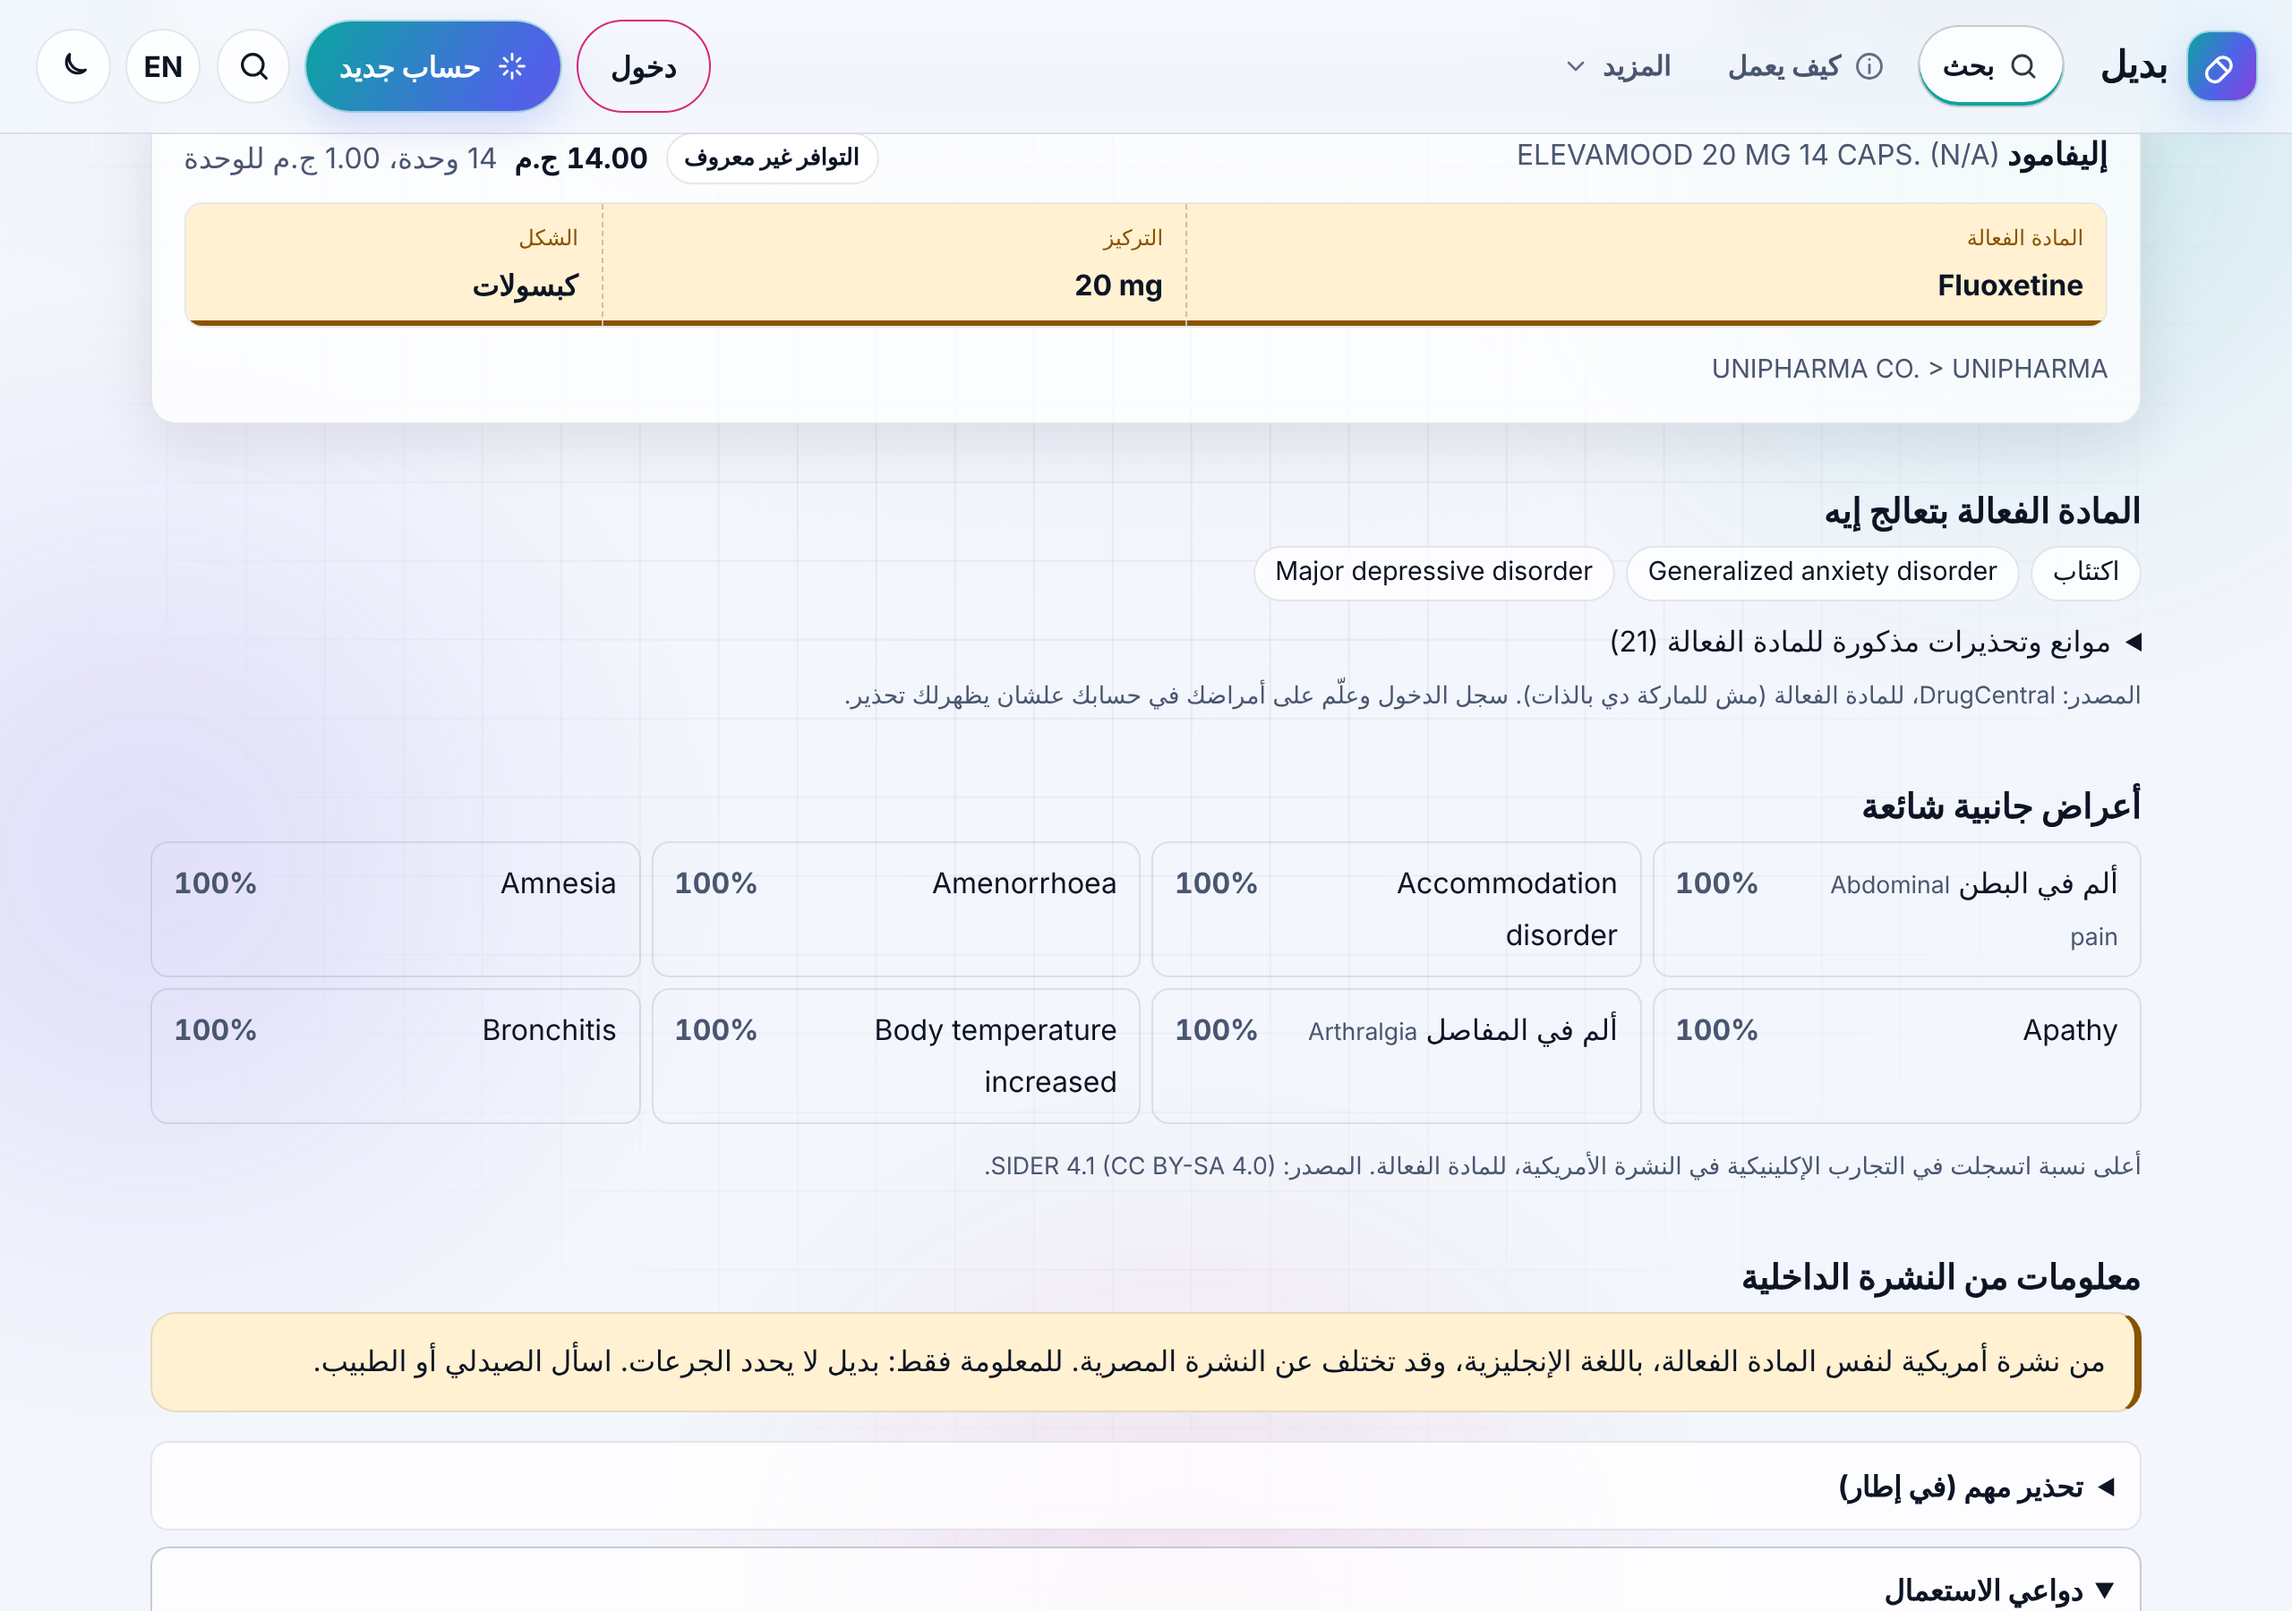
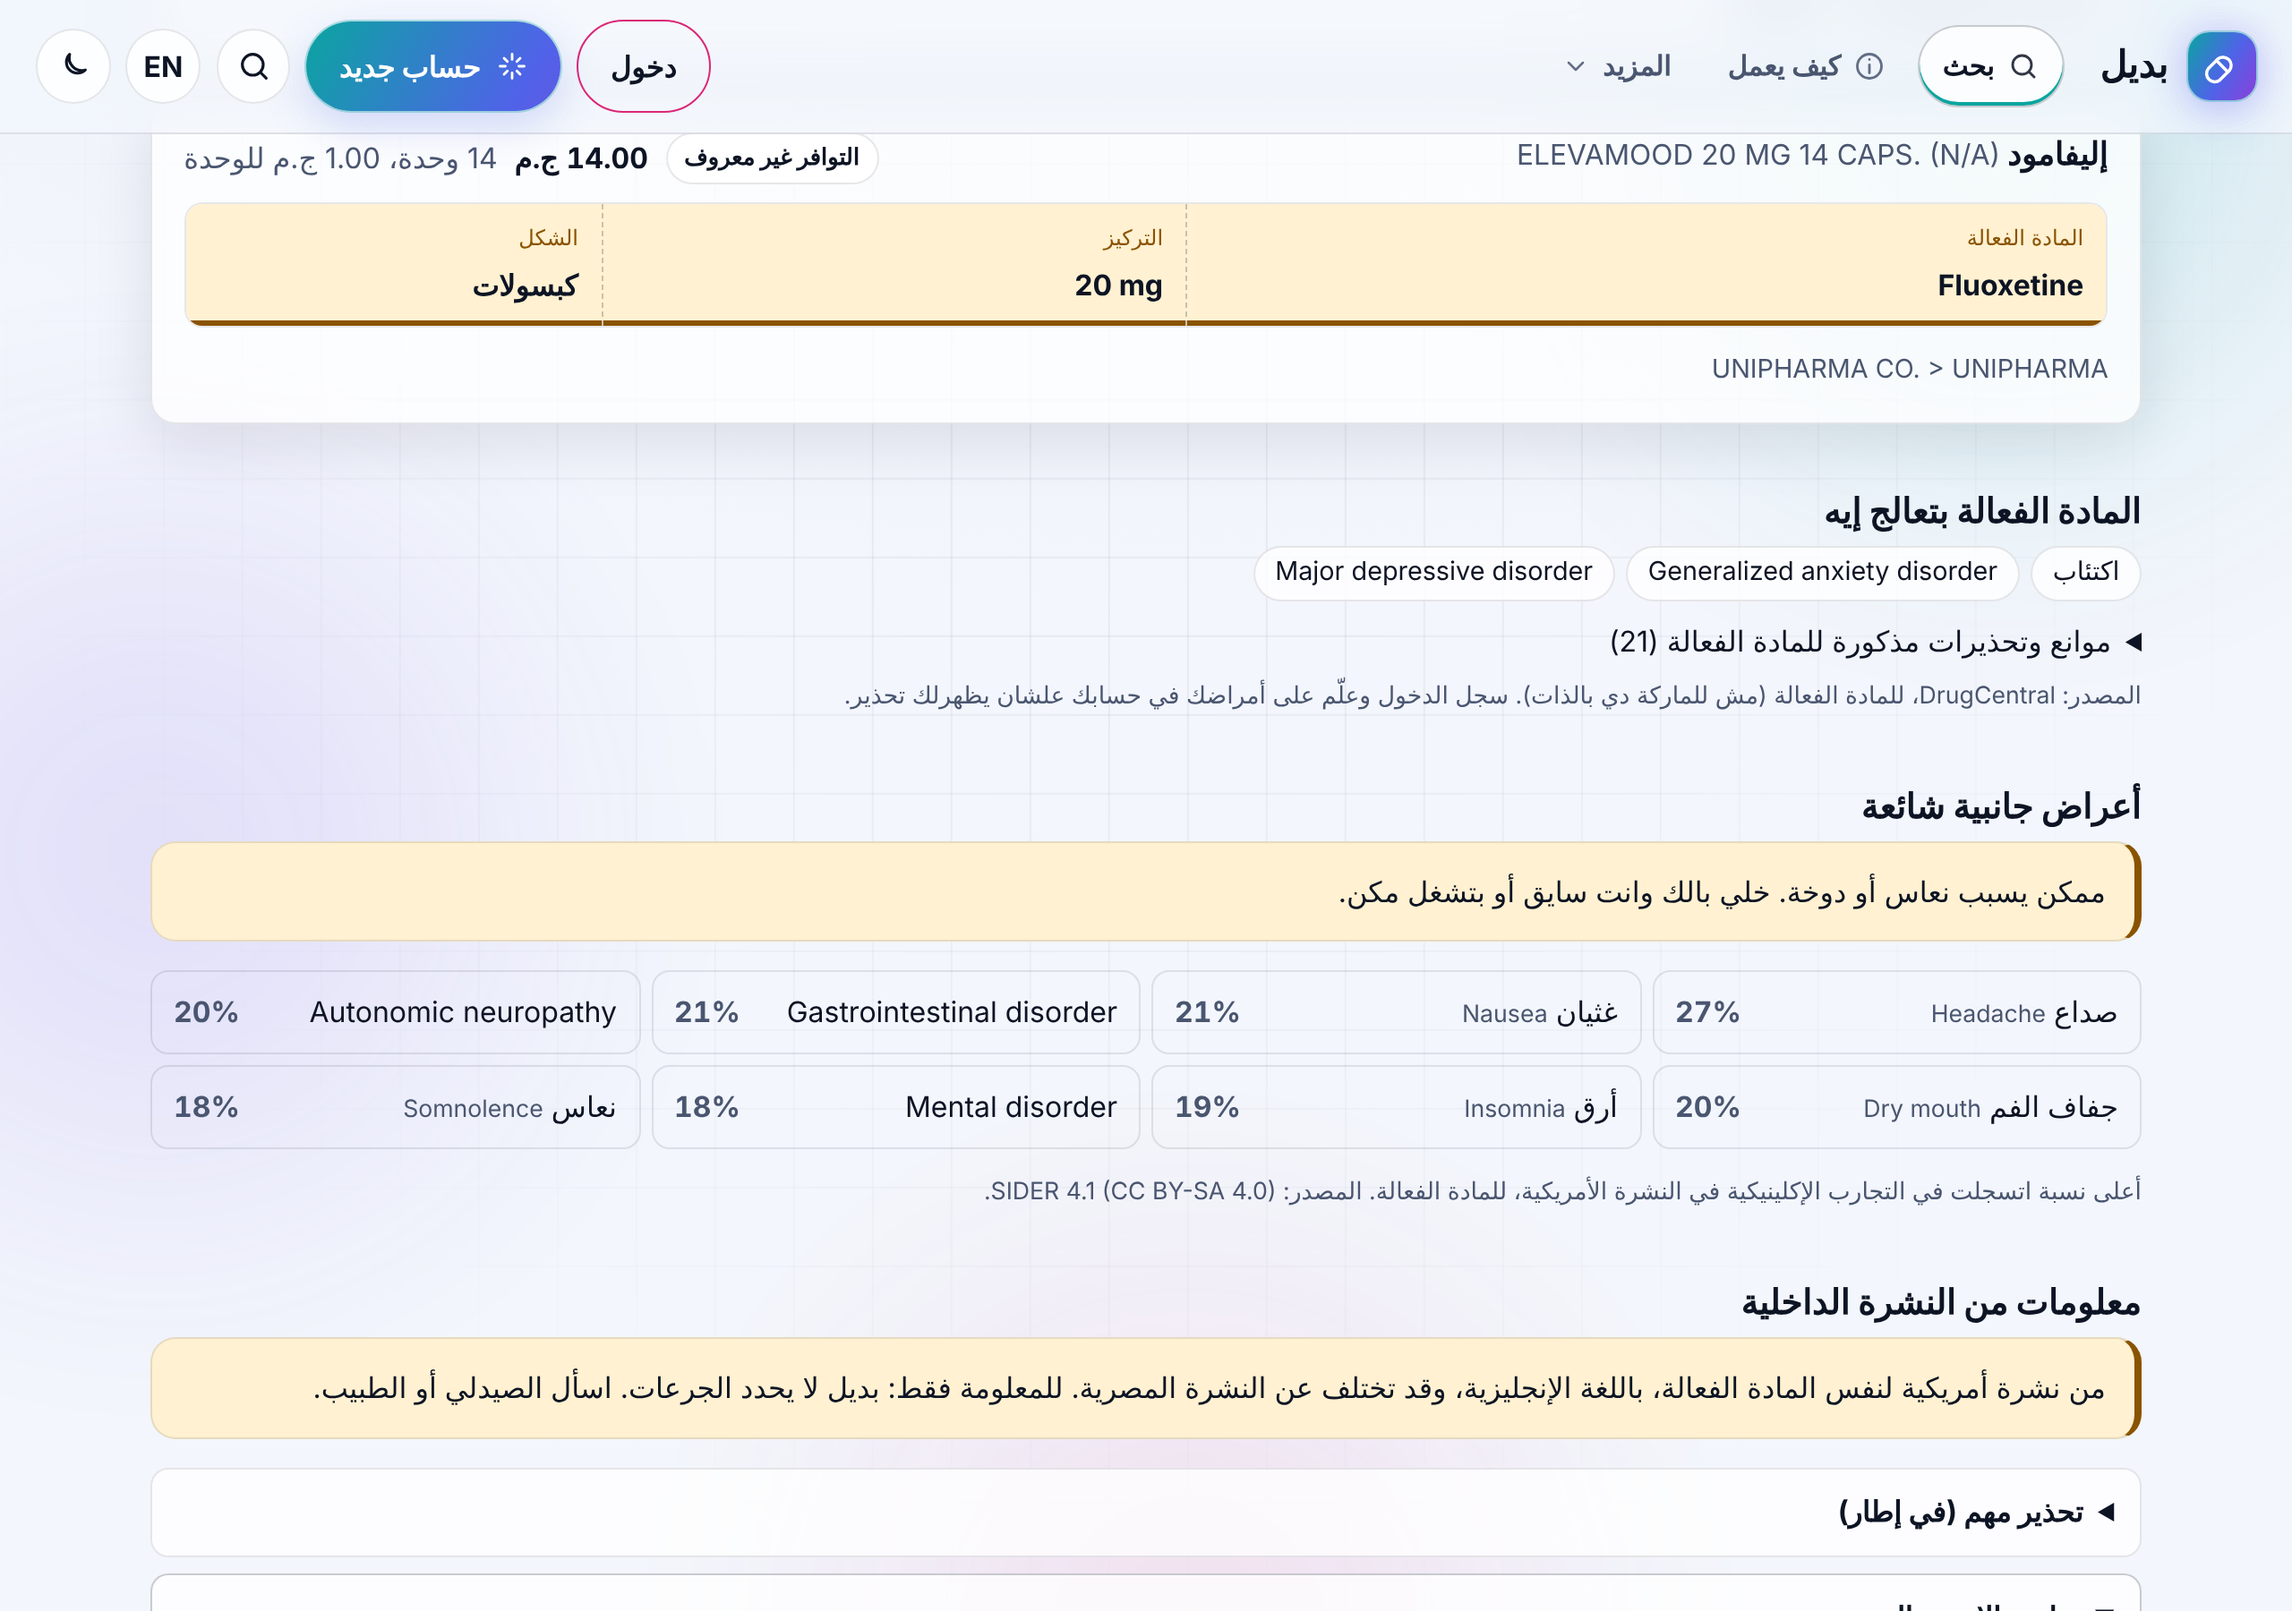
Show reliable side-effect rates, filter symptom suggestions by dosage form
- SIDER word categories are wide ranges ("common" = 1% to 100%); show their
  guaranteed lower end ("≥1%") instead of 100%, and skip 0% rows.
- Symptom explorer: only dosage forms a patient would use for that symptom
  (no injections, eye drops only for eyes), no fillers such as sodium or
  citric acid, no withdrawn products.
- Coverage report: count look-alike pairs without direction.
- Updated screenshots and the coverage numbers.

Claude-Session: https://claude.ai/code/session_01WgE1eehAPMNA2BS5jG3jTy

diff --git a/badeel/services/coverage.py b/badeel/services/coverage.py
@@ -63,6 +63,12 @@ def report():
     }
 
 
+def _pairs(source):
+    """Pairs without direction: (a, b) and (b, a) count once."""
+    return len({tuple(sorted((r["name_a"], r["name_b"])))
+                for r in db.query("SELECT name_a, name_b FROM lasa_pairs WHERE source = ?", (source,))})
+
+
 def _safety(drugs, moieties, any_in):
     """Look-alike names, side effects, RxNorm names and OTC ingredients."""
     from .lasa import brand
@@ -73,12 +79,12 @@ def _safety(drugs, moieties, any_in):
     se_all = se_ing | {m for m, n in rx.items() if n and moiety_key(n) in se_ing}
     combos = {r["status"]: r["n"] for r in db.query("SELECT status, COUNT(*) AS n FROM combo_suggestions GROUP BY status")}
     return {
-        "lasa_pairs_ismp": db.one("SELECT COUNT(*) AS n FROM lasa_pairs WHERE source = 'ISMP'")["n"] // 2,
-        "lasa_pairs_local": db.one("SELECT COUNT(*) AS n FROM lasa_pairs WHERE source = 'Badeel'")["n"] // 2,
+        "lasa_pairs_ismp": _pairs("ISMP"),
+        "lasa_pairs_local": _pairs("Badeel"),
         "products_with_lasa": sum(brand(d["trade_name"]) in lasa_names or any_in(d, lasa_names) for d in drugs),
         "side_effect_rows": db.one("SELECT COUNT(*) AS n FROM ingredient_side_effects")["n"],
         "products_with_side_effects": sum(any_in(d, se_all) for d in drugs),
-        "rxnorm_checked": len(rx), "rxnorm_found": sum(1 for n in rx.values() if n),
+        "rxnorm_checked": len(moieties & set(rx)), "rxnorm_found": sum(1 for m in moieties if rx.get(m)),
         "ingredients": len(moieties),
         "otc_ingredients": len(otc), "products_otc": sum(any_in(d, otc) for d in drugs),
         "combos": combos,
@@ -119,7 +125,7 @@ def as_text(r):
             "Safety data",
             f"  Look-alike pairs (ISMP list)        : {r['lasa_pairs_ismp']:,}",
             f"  Look-alike Egyptian brand pairs     : {r['lasa_pairs_local']:,}",
-            f"  Products with a look-alike warning  : {_pct(r['products_with_lasa'], r['products'])}",
+            f"  Products named in a look-alike pair : {_pct(r['products_with_lasa'], r['products'])}",
             f"  SIDER side-effect rows              : {r['side_effect_rows']:,}",
             f"  Products with side effects          : {_pct(r['products_with_side_effects'], r['products'])}",
             f"  Ingredients checked in RxNorm       : {_pct(r['rxnorm_checked'], r['ingredients'])}",
